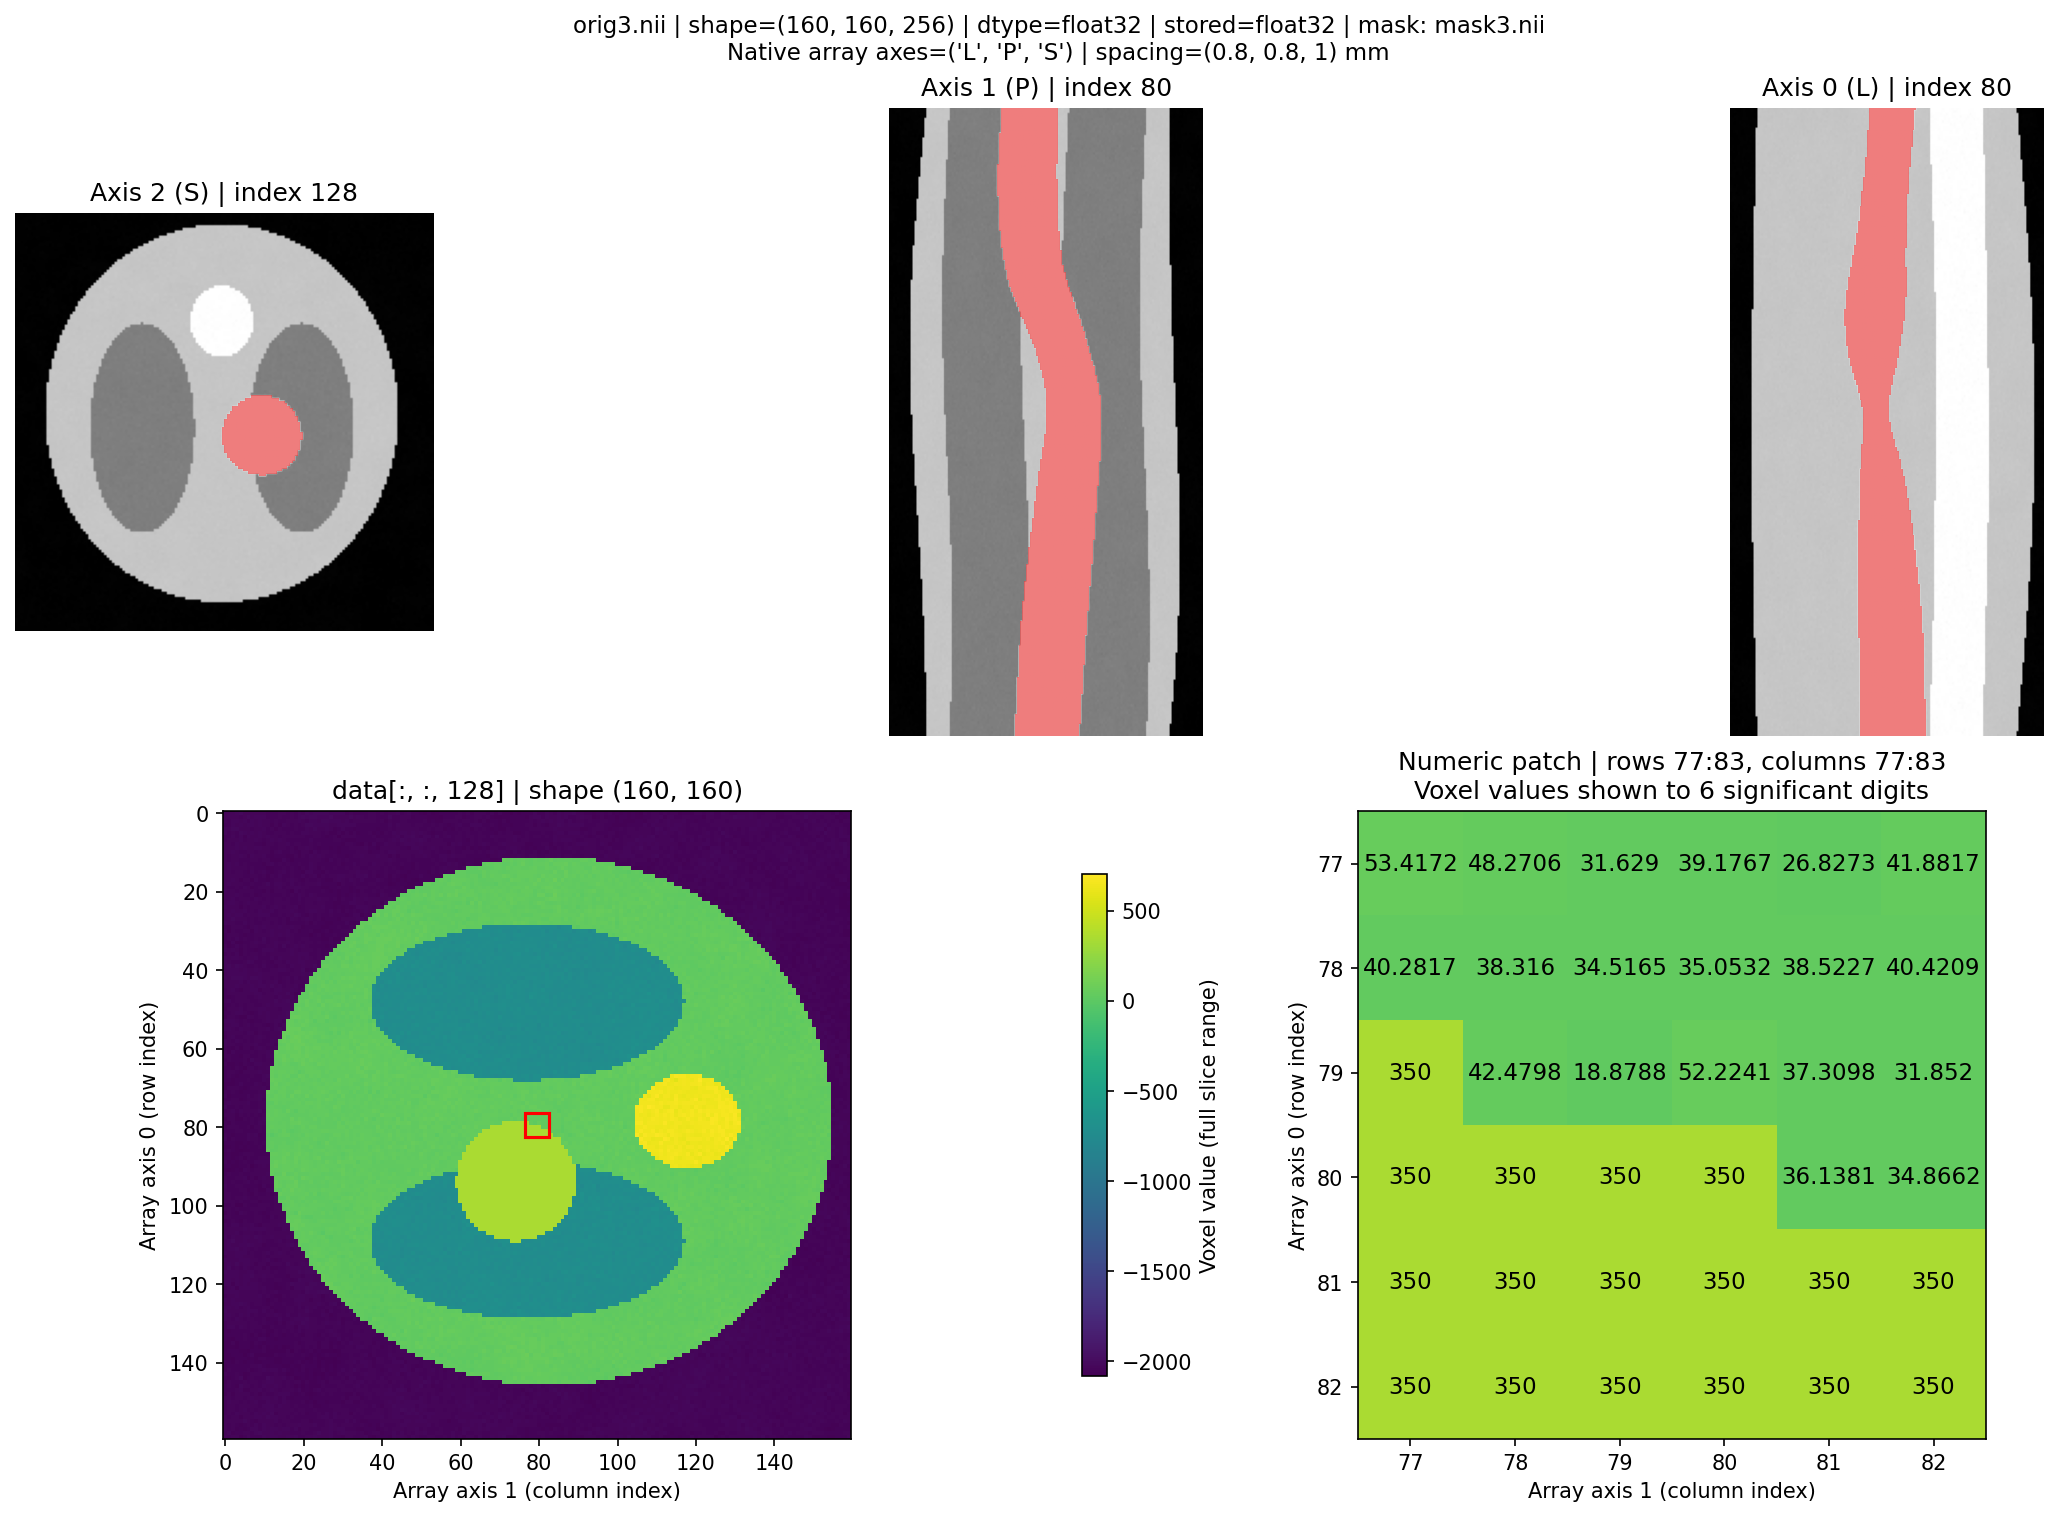
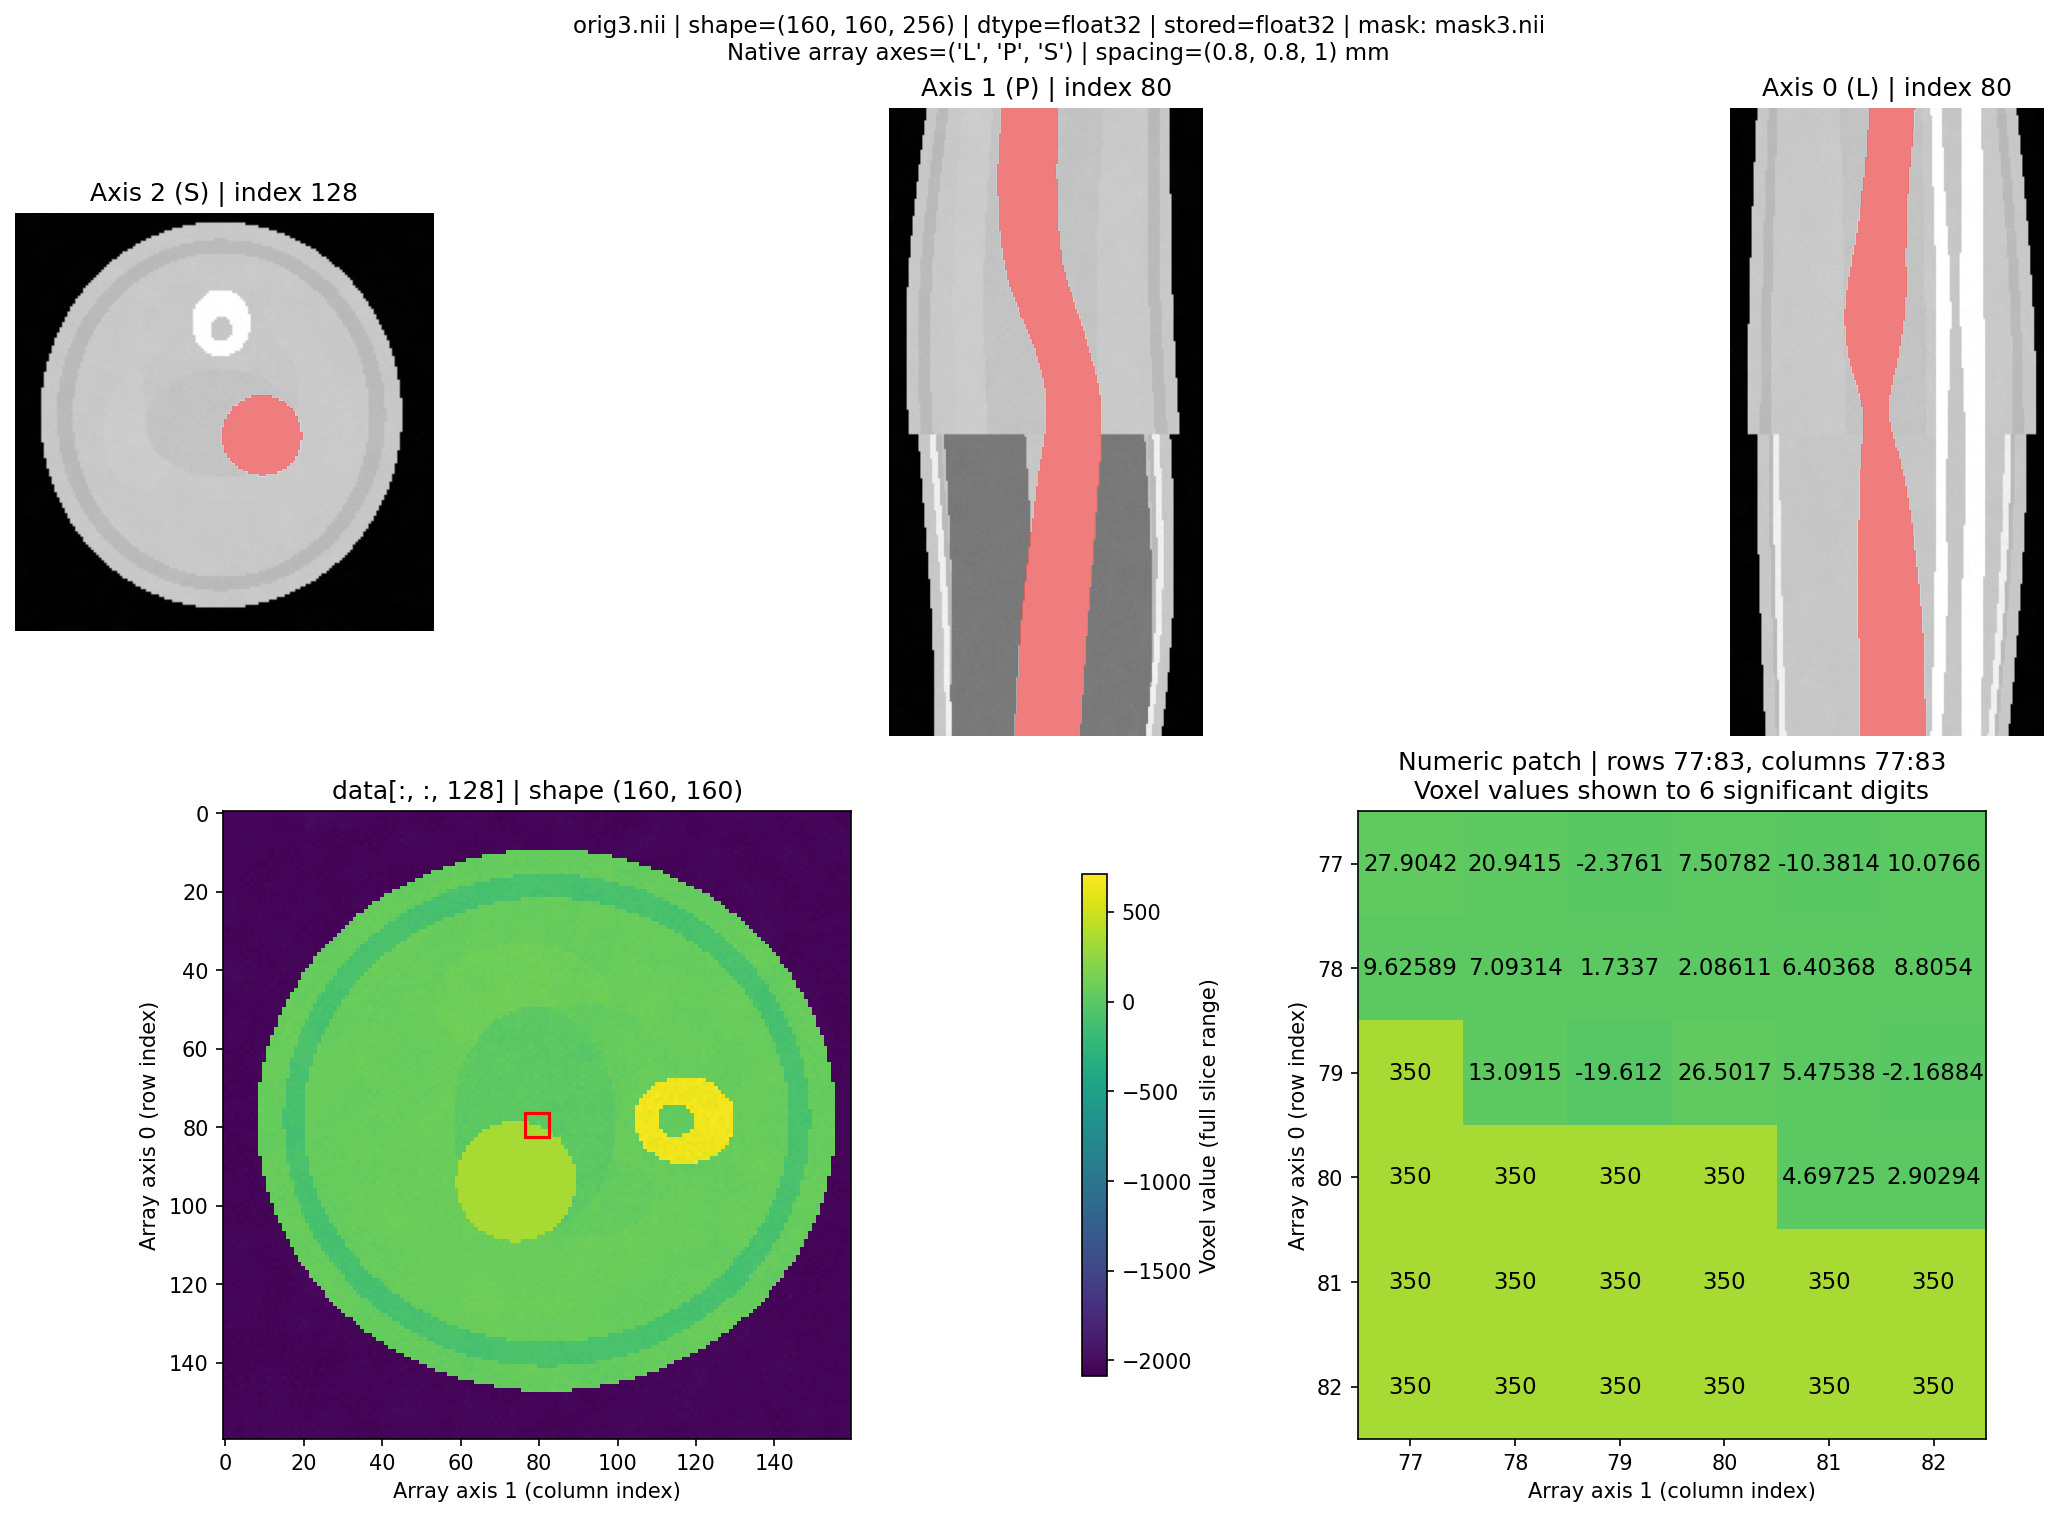
feat: improve synthetic data generator

diff --git a/scripts/generate_synthetic_cases.py b/scripts/generate_synthetic_cases.py
@@ -100,7 +100,7 @@ def create_body_like_volume(
     rng: np.random.Generator,
     noise_std: float,
 ) -> np.ndarray:
-    """Create a smooth torso cross-section with tissue-specific CT texture."""
+    """Create a level-dependent torso cross-section with CT-like tissue texture."""
     nz, ny, nx = shape_zyx
     physical_size = np.asarray((nx, ny, nz), dtype=float) * spacing_xyz_mm
     x = (np.arange(nx, dtype=float) + 0.5) * spacing_xyz_mm[0]
@@ -110,49 +110,94 @@ def create_body_like_volume(
     image = np.full(shape_zyx, -2048.0, dtype=np.float32)
     tissue = np.zeros(shape_zyx, dtype=np.uint8)
 
+    def ellipse(center: tuple[float, float], radii: tuple[float, float]) -> np.ndarray:
+        return (((xx - center[0]) / radii[0]) ** 2
+                + ((yy - center[1]) / radii[1]) ** 2) <= 1.0
+
+    def assign(mask: np.ndarray, value: float, tissue_class: int) -> None:
+        mask &= body
+        image[z_index, mask] = value
+        tissue[z_index, mask] = tissue_class
+
     for z_index in range(nz):
         fraction = (z_index + 0.5) / nz
-        taper = 0.90 + 0.08 * np.sin(np.pi * fraction)
-        body_x = physical_size[0] * 0.43 * taper
-        body_y = physical_size[1] * 0.46 * taper
+        thoracic = fraction < 0.48
+        taper = 0.88 + 0.10 * np.sin(np.pi * fraction)
+        body_x = physical_size[0] * (0.41 if thoracic else 0.44) * taper
+        body_y = physical_size[1] * (0.44 if thoracic else 0.47) * taper
         body_center = np.array([
-            center_x + 2.0 * np.sin(2 * np.pi * fraction + 0.4),
-            center_y + 2.5 * np.sin(np.pi * fraction),
+            center_x + 2.5 * np.sin(2 * np.pi * fraction + 0.4),
+            center_y + 2.0 * np.sin(np.pi * fraction),
         ])
         body = (((xx - body_center[0]) / body_x) ** 2
                 + ((yy - body_center[1]) / body_y) ** 2) <= 1.0
-        image[z_index, body] = 35.0
+        image[z_index, body] = 45.0 if thoracic else 65.0
         tissue[z_index, body] = 1
 
-        lung_offset = physical_size[0] * 0.19
-        lung_x_radius = physical_size[0] * 0.125
-        lung_y_radius = physical_size[1] * 0.25
-        for lung_center_x in (body_center[0] - lung_offset, body_center[0] + lung_offset):
-            lung = (((xx - lung_center_x) / lung_x_radius) ** 2
-                    + ((yy - (body_center[1] - physical_size[1] * 0.035)) / lung_y_radius) ** 2) <= 1.0
-            lung &= body
-            image[z_index, lung] = -720.0
-            tissue[z_index, lung] = 2
+        # Subcutaneous fat and a thinner muscular ring provide a nonuniform body wall.
+        inner_body = ellipse(tuple(body_center), (body_x * 0.82, body_y * 0.84))
+        fat = body & ~inner_body
+        image[z_index, fat] = -95.0
+        tissue[z_index, fat] = 4
+        muscle = body & ~ellipse(tuple(body_center), (body_x * 0.91, body_y * 0.91))
+        image[z_index, muscle] = 55.0
+        tissue[z_index, muscle] = 5
 
-        spine = (((xx - body_center[0]) / (physical_size[0] * 0.075)) ** 2
-                  + ((yy - (body_center[1] + physical_size[1] * 0.22)) / (physical_size[1] * 0.085)) ** 2) <= 1.0
-        spine &= body
-        image[z_index, spine] = 650.0
-        tissue[z_index, spine] = 3
+        posterior = body_center[1] + physical_size[1] * 0.22
+        spine = ellipse((body_center[0], posterior),
+                        (physical_size[0] * 0.070, physical_size[1] * 0.080))
+        assign(spine, 650.0, 3)
+        canal = ellipse((body_center[0], posterior - physical_size[1] * 0.015),
+                        (physical_size[0] * 0.026, physical_size[1] * 0.030))
+        assign(canal, 40.0, 1)
+
+        if thoracic:
+            lung_offset = physical_size[0] * 0.19
+            lung_radii = (physical_size[0] * 0.13, physical_size[1] * 0.235)
+            for lung_center_x in (body_center[0] - lung_offset, body_center[0] + lung_offset):
+                lung = ellipse((lung_center_x, body_center[1] - physical_size[1] * 0.035), lung_radii)
+                assign(lung, -780.0, 2)
+
+            # Curved high-density ribs are represented by smooth elliptical arcs.
+            rib_outer = ellipse(tuple(body_center), (body_x * 0.91, body_y * 0.88))
+            rib_inner = ellipse(tuple(body_center), (body_x * 0.86, body_y * 0.83))
+            assign(rib_outer & ~rib_inner, 480.0, 3)
+        else:
+            liver = ellipse((body_center[0] + physical_size[0] * 0.13,
+                             body_center[1] - physical_size[1] * 0.05),
+                            (physical_size[0] * 0.19, physical_size[1] * 0.22))
+            assign(liver, 75.0, 6)
+            spleen = ellipse((body_center[0] - physical_size[0] * 0.19,
+                              body_center[1] - physical_size[1] * 0.04),
+                             (physical_size[0] * 0.09, physical_size[1] * 0.14))
+            assign(spleen, 95.0, 6)
+            kidney_radii = (physical_size[0] * 0.065, physical_size[1] * 0.11)
+            for kidney_center_x in (body_center[0] - physical_size[0] * 0.12,
+                                    body_center[0] + physical_size[0] * 0.12):
+                assign(ellipse((kidney_center_x, body_center[1] + physical_size[1] * 0.06), kidney_radii), 45.0, 1)
+
+            bowel = ellipse((body_center[0], body_center[1] - physical_size[1] * 0.02),
+                            (physical_size[0] * 0.18, physical_size[1] * 0.13))
+            assign(bowel, 5.0, 7)
+
+        # A small smooth body-motion field prevents perfectly identical axial slices.
+        slice_bias = 3.5 * np.sin(2 * np.pi * fraction * 1.7 + 0.5)
+        image[z_index, body] += slice_bias
 
     if noise_std <= 0:
         return image
 
     # Low-frequency scanner/body variation plus tissue-dependent quantum noise.
-    smooth_noise = gaussian_filter(rng.normal(size=shape_zyx), sigma=(4.0, 3.0, 3.0), mode="reflect")
+    smooth_noise = gaussian_filter(rng.normal(size=shape_zyx), sigma=(3.0, 2.5, 2.5), mode="reflect")
     smooth_noise /= max(float(smooth_noise.std()), 1e-6)
-    image += (smooth_noise * noise_std * 0.7).astype(np.float32)
+    image += (smooth_noise * noise_std * 0.9).astype(np.float32)
     tissue_noise = np.select(
-        [tissue == 0, tissue == 1, tissue == 2, tissue == 3],
-        [1.0, 1.35, 1.8, 2.2],
+        [tissue == 0, tissue == 1, tissue == 2, tissue == 3,
+         tissue == 4, tissue == 5, tissue == 6, tissue == 7],
+        [0.8, 1.2, 1.6, 2.0, 1.0, 1.3, 1.15, 1.5],
         default=1.0,
     )
-    image += (rng.normal(size=shape_zyx) * noise_std * tissue_noise).astype(np.float32)
+    image += (rng.normal(size=shape_zyx) * noise_std * 1.25 * tissue_noise).astype(np.float32)
     return image
 
 
